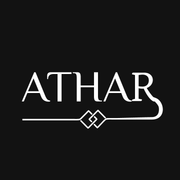
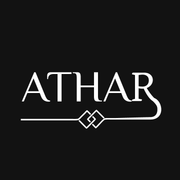
Shift PWA decorative line slightly left (-8px, v391).

Changed region(s): [[0.4167, 0.5833, 0.6111, 0.7222], [0.8333, 0.5278, 0.9167, 0.6667], [0.1111, 0.6389, 0.1389, 0.6667]]

diff --git a/index.html b/index.html
@@ -12,13 +12,13 @@
   <meta name="apple-mobile-web-app-status-bar-style" content="black-translucent">
   <meta name="apple-mobile-web-app-title" content="ATHAR">
   <title>منصة الرصد المتكاملة | Monitoring Platform</title>
-  <link rel="manifest" href="manifest.webmanifest?v=390">
-  <link rel="icon" type="image/png" sizes="512x512" href="icons/athar-pwa-512-v390.png">
-  <link rel="icon" type="image/png" sizes="192x192" href="icons/athar-pwa-192-v390.png">
-  <link rel="apple-touch-icon" href="icons/athar-pwa-180-v390.png?v=390">
-  <link rel="apple-touch-icon-precomposed" href="icons/athar-pwa-180-v390.png?v=390">
-  <link rel="apple-touch-icon" sizes="180x180" href="icons/athar-pwa-180-v390.png?v=390">
-  <link rel="apple-touch-icon" sizes="512x512" href="icons/athar-pwa-512-v390.png?v=390">
+  <link rel="manifest" href="manifest.webmanifest?v=391">
+  <link rel="icon" type="image/png" sizes="512x512" href="icons/athar-pwa-512-v391.png">
+  <link rel="icon" type="image/png" sizes="192x192" href="icons/athar-pwa-192-v391.png">
+  <link rel="apple-touch-icon" href="icons/athar-pwa-180-v391.png?v=391">
+  <link rel="apple-touch-icon-precomposed" href="icons/athar-pwa-180-v391.png?v=391">
+  <link rel="apple-touch-icon" sizes="180x180" href="icons/athar-pwa-180-v391.png?v=391">
+  <link rel="apple-touch-icon" sizes="512x512" href="icons/athar-pwa-512-v391.png?v=391">
   <link
     href="https://fonts.googleapis.com/css2?family=IBM+Plex+Sans:wght@500;600;700&family=IBM+Plex+Sans+Arabic:wght@300;400;500;600;700&family=JetBrains+Mono:wght@400;600&display=swap"
     rel="stylesheet">
@@ -21335,7 +21335,7 @@
       }
     }
   </style>
-  <meta name="app-build" content="athar-figma-v406-pwa-deco-nudge">
+  <meta name="app-build" content="athar-figma-v407-pwa-deco-left">
   <!-- مقياس zoom على الجوال يُعطّل لتحسين الأداء — التنسيق عبر CSS الجوال -->
 </head>
 
